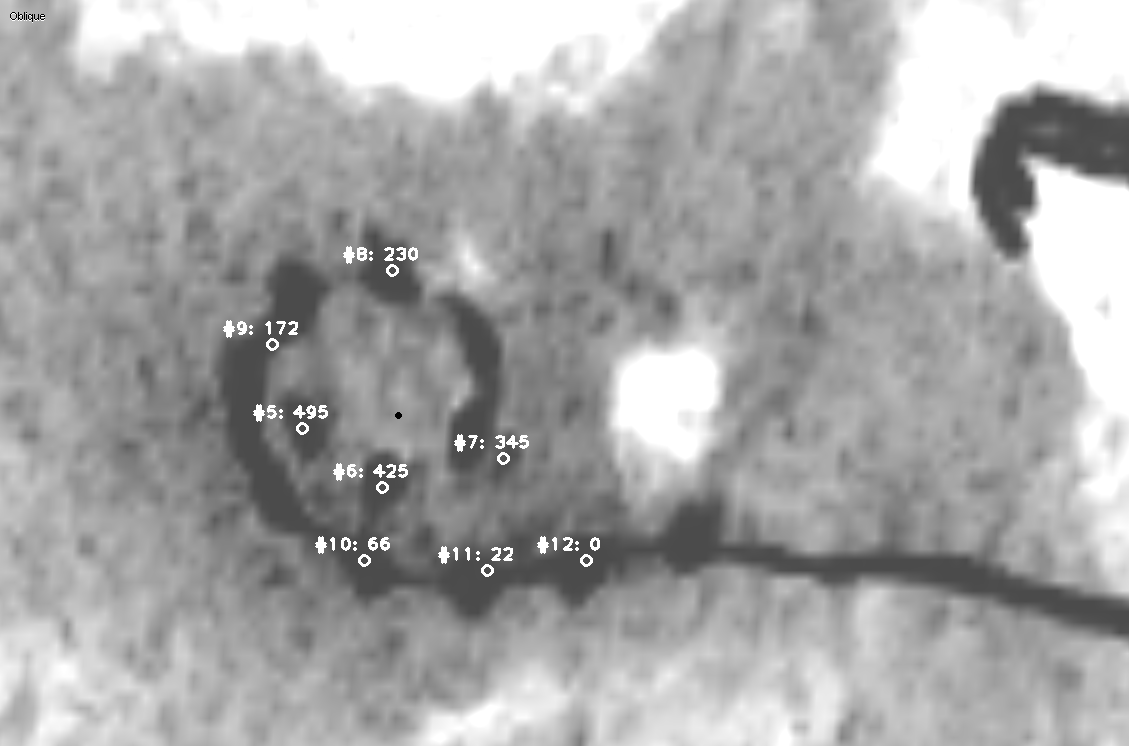
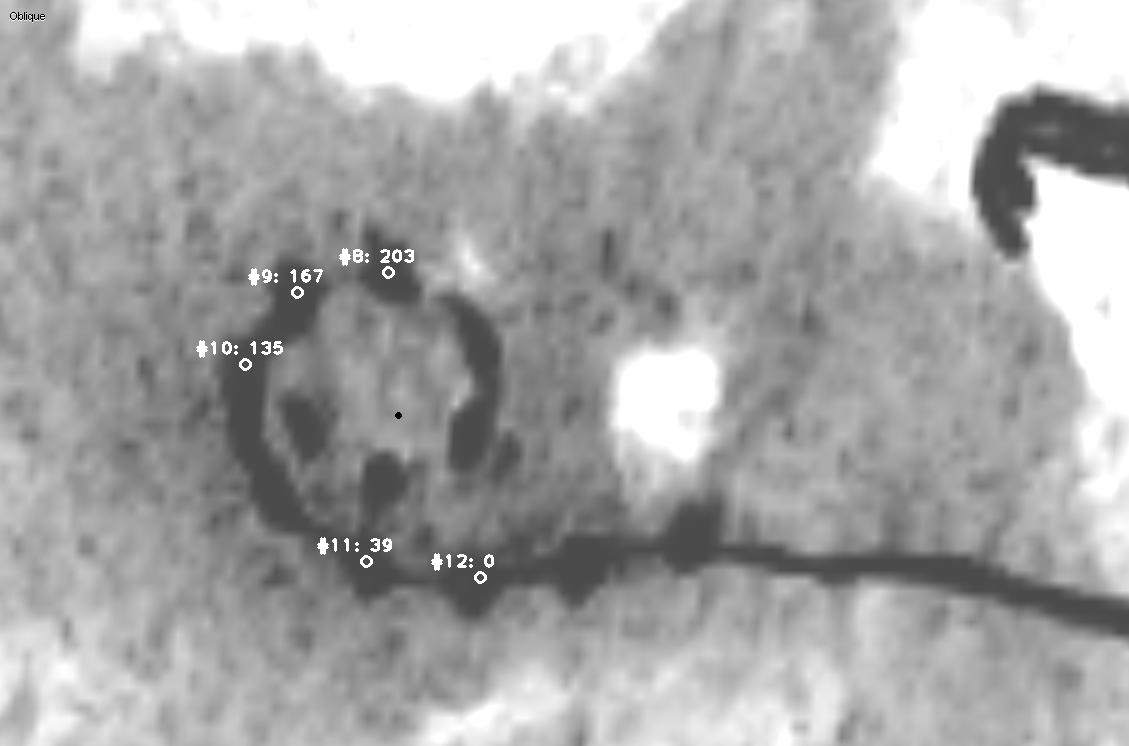
add images and result summary

diff --git a/Project/CTscanPair.py b/Project/CTscanPair.py
@@ -1,6 +1,6 @@
 import io
 import ntpath
-
+import os
 import cv2
 import imutils
 from PIL import Image
@@ -384,6 +384,7 @@ class CTscanPair:
         # returns the coordinates of the center
         return cochlea_center
 
+    # TODO remove
     def setElectrodesCoordinates(self):
 
         verbose = config.set_electrode_coordinates["verbose"]
@@ -466,31 +467,33 @@ class CTscanPair:
 
             # check iter depth. If a blob is below 50 it loops over although it should be eroded away with time and
             # adding a break to the elif on line 431 doesnt
-            iter = 0
+            # check iter depth. If a blob is below 50 it loops over although it should be eroded away with time and
+            # adding a break to the elif on line 431 doesnt
+
 
             # if a blob exceeds 3000 we assume that it is a collection of 2 or more blobs
-            while numPixels > 3000 and iter != 5:
+            while numPixels > 3000:
                 # Activate this in case you want to see what happens also the utils.show() 3 lines lower
                 # utils.show(labelMask)
 
                 # erode the blob aggregate and recalculate blob size. If it is below 3000 it will make the cut and
-                labelMask1 = cv2.erode(labelMask, kernel_erode, iterations=16)
-                numPixels1 = cv2.countNonZero(labelMask1)
+                labelMask = cv2.erode(labelMask, kernel_erode, iterations=2)
+                numPixels = cv2.countNonZero(labelMask)
 
                 # see if blob aggregate is broken up after erosion
                 # utils.show(labelMask1)
 
-                # update counter
-                iter += 1
 
-                # included erorded blob
-                if numPixels1 > 50:
-                    numPixel_l.append(numPixels1)
-                    mask = cv2.add(mask, labelMask1)
+
+                # included erorded blob if within interval [50, 3000]
+                if numPixels > 50 and numPixels < 3000:
+                    numPixel_l.append(numPixels)
+                    mask = cv2.add(mask, labelMask)
                     break
-                # remove noise
-                elif numPixels < 50:
-                    continue
+                # if its too big or too small
+                else:
+                    numPixels = cv2.countNonZero(labelMask)
+                    pass
 
         # here you can check that the average electrode blob size is around 1500
         if verbose:
@@ -526,6 +529,171 @@ class CTscanPair:
             utils.show(img, name)
 
         # return list of coordinates
+        return all_coor
+
+    # Deprecated
+    def new_version_setElectrodesCoordinates(self):
+        """
+
+        :return: Same than previous version but performs worst at some point
+        """
+
+        # get post op image and invert intensity
+        img = self.postop_arr.copy()
+        img = cv2.bitwise_not(img)
+
+        ###############################################
+        # Setup SimpleBlobDetector parameters.
+        parameters = cv2.SimpleBlobDetector_Params()
+
+        # Change thresholds
+        parameters.minThreshold = 0
+        parameters.maxThreshold = 255
+
+        # Filter by Area.
+        parameters.filterByArea = True
+        parameters.minArea = 10
+
+        # Filter by Circularity
+        parameters.filterByCircularity = True
+        parameters.minCircularity = 0.1
+
+        # Filter by Convexity
+        parameters.filterByConvexity = False
+        parameters.minConvexity = 0.87
+
+        # Filter by Inertia
+        parameters.filterByInertia = False
+        parameters.minInertiaRatio = 0.01
+        ###############################################################
+
+        # create mask of the cochlea for normalization. The cochlea is the region that is of interest to us, so we use
+        # it to normalize the images. This region contains (most of the) electrodes as well as the background noise that
+        # surrounds them.
+        cochlea_mask = self.cochlea_area
+        normRegion = np.where(cochlea_mask == 0, cochlea_mask, img)
+
+        # Calculate mean and STD of normRegion for clipping and normalization
+        mean, SD = cv2.meanStdDev(normRegion)
+
+        # we clip the pixel values outside of the interval [mean-SD, mean+SD]
+        clipped = np.clip(img, mean - 2 * SD, mean + 2 * SD).astype(np.uint8)
+
+        # Normalize the image
+        mean_cl, SD_cl = cv2.meanStdDev(clipped)
+        img_norm = cv2.normalize(clipped, clipped, mean_cl, 255, norm_type=cv2.NORM_MINMAX)
+
+        # Gaussian blurring to reduce high frequency noise
+        blurred_img = cv2.GaussianBlur(img_norm, (41, 41), 0)
+
+        # Extract statistics of the normalized image
+        min_img, max_img = np.amin(blurred_img), np.amax(blurred_img)
+        mean_img, SD_img = cv2.meanStdDev(blurred_img)
+
+        # thresholding of the images and conversion to a binary image
+        # 3SD away from max value of image (= 255) seems reasonable
+        thresh_img1 = cv2.threshold(blurred_img, max_img - 2.9 * SD_img, 255, cv2.THRESH_BINARY)[1]
+
+        # The next key step is to make the shape of the electrodes more clear. Need to flip the invert image again
+        # otherwise eroded and dilate are all backwards... I could not flip at the beginning and redo the normalization
+        # and take the lowest values but I m too lazy
+        thresh_img1 = cv2.bitwise_not(thresh_img1)
+
+        # create a nice ellipsoid kernel since we have round shape.
+        kernel_erode = cv2.getStructuringElement(cv2.MORPH_ELLIPSE, (3, 3))
+
+        # erode reduces noise around blobs. Makes the blobs smaller and more defined, especially when two are connected
+        eroded_img = cv2.erode(thresh_img1, kernel_erode, iterations=3)
+
+        # cv2.dilate increases the size of the blob, yield more defined dots
+        dilated_img = cv2.dilate(eroded_img, kernel_erode, iterations=4)
+
+        # The next is to perform a Connected-component labeling, which subsets connected components and labels them.
+        dilated_img = np.where(cochlea_mask == 0, cochlea_mask, dilated_img)
+        labels = measure.label(dilated_img, background=0)
+        mask = np.zeros(eroded_img.shape, dtype="uint8")
+
+        # utils.show(dilated_img)
+        # store number of pixels per blob >> only used to find good limits for blob selection.
+        numPixel_l = []
+
+        # loop over all unique blobs that have been found
+        for label in np.unique(labels):
+
+            # Ignore the background label. Background = 0
+            if label == 0:
+                continue
+
+            # Create mask and set labeled area "blob" to 255
+            labelMask = np.zeros(eroded_img.shape, dtype="uint8")
+            labelMask[labels == label] = 255
+
+            # calculate numPixels
+            numPixels = cv2.countNonZero(labelMask)
+
+            # A normal electrode blob consists of around 1500 pixels on average. A weak blob should be at least 50, rest
+            # is noise. These limits are based on empirical evidence we got from our image set. Would be greater to have
+            # more to find more accurate values.
+            if numPixels > 50 and numPixels < 3000:
+                numPixel_l.append(numPixels)
+                mask = cv2.add(mask, labelMask)
+
+            # check iter depth. If a blob is below 50 it loops over although it should be eroded away with time and
+            # adding a break to the elif on line 431 doesnt
+            iter = 0
+
+            # if a blob exceeds 3000 we assume that it is a collection of 2 or more blobs
+            while numPixels > 3000 and iter != 100:
+                # Activate this in case you want to see what happens also the utils.show() 3 lines lower
+                # utils.show(labelMask)
+
+                # erode the blob aggregate and recalculate blob size. If it is below 3000 it will make the cut and
+                labelMask = cv2.erode(labelMask, kernel_erode, iterations=2)
+                numPixels = cv2.countNonZero(labelMask)
+
+                # see if blob aggregate is broken up after erosion
+                # utils.show(labelMask1)
+
+                # update counter
+                iter += 1
+
+                # included erorded blob if within interval [50, 3000]
+                if numPixels > 50 and numPixels < 3000:
+                    numPixel_l.append(numPixels)
+                    mask = cv2.add(mask, labelMask)
+                    break
+                # if its too big or too small
+                else:
+                    numPixels = cv2.countNonZero(labelMask)
+                    pass
+
+        # here you can check that the average electrode blob size is around 1500
+        print("mean blob size", np.mean(numPixel_l))
+
+        mask = cv2.bitwise_not(mask)
+
+        # check version of cv2 to load blob detector correctly
+        if cv2.__version__.startswith('2.'):
+            detector = cv2.SimpleBlobDetector(parameters)
+        else:
+            detector = cv2.SimpleBlobDetector_create(parameters)
+
+        # detect the blobs
+        blobs = detector.detect(mask)
+
+        # draw red circles > np.array = temporary output array. Here its BGR not RGB
+        drawBlobs = cv2.drawKeypoints(img, blobs, np.array([]), (255, 0, 0),
+                                      cv2.DRAW_MATCHES_FLAGS_DRAW_RICH_KEYPOINTS)
+
+        all_coor = []
+        # find the coordinates of the blobs
+        for blob in blobs:
+            cx = blob.pt[0]
+            cy = blob.pt[1]
+            all_coor.append((round(cx), round(cy)))
+
+        utils.show(drawBlobs)
+
         return all_coor
 
     # TODO - Tobias Part!! comment functions
@@ -646,7 +814,7 @@ class CTscanPair:
         if config.electrodes_enumeration["save_file"]:
             print("saving file...")
             path2 = './GEN_IMG/'
-            filename = "electrodes_" + self.name + ".png"
+            filename = "1st_electrodes_" + self.name + ".png"
             print("to path: ", path2 + filename)
             cv2.imwrite(os.path.join(path2, filename), image)
 

diff --git a/Project/config.py b/Project/config.py
@@ -65,15 +65,15 @@ calculate_angular_insertion_depth = {
 }
 
 electrodes_enumeration = {
-    #
+    # Check if the next electrode blob is between those two angles
     "min_angle": 5,
     #
     "max_angle": 115,
     # IMPORTANT: SHOW IMAGES OF DETECTED ELECTRODE BEFORE AND AFTER SORTING
     # AND NUMBERING.
-    "Show found electrodes on image?": True,
+    "Show found electrodes on image?": False,
     #
     "Radius threshold": (0.59, 1.5),
     # save image files, Show found electrodes has to be set to true too
-    "save_file": True
+    "save_file": False
 }
